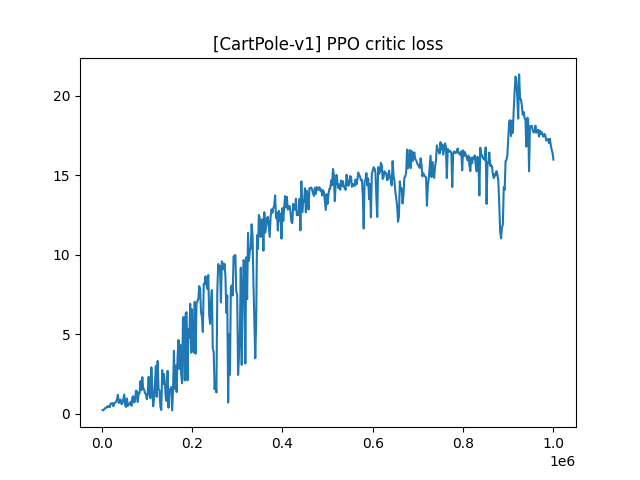
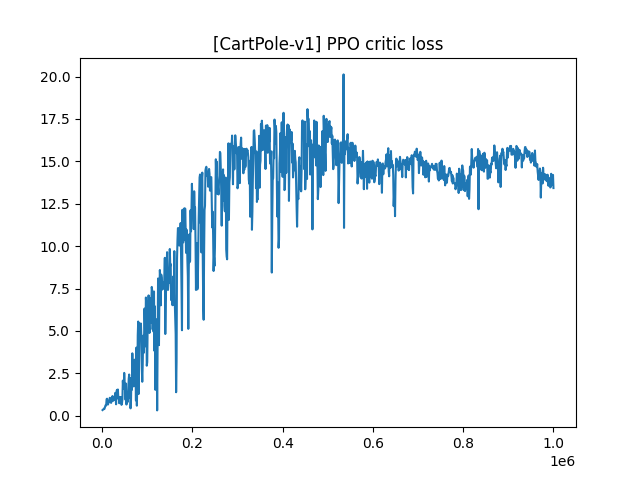
increase learning speed

diff --git a/algos/discrete_ppo.py b/algos/discrete_ppo.py
@@ -34,14 +34,14 @@ ENV_CONFIG = {
         "critic_model": Critic,
         "critic_params": [(30, 15)],
         "hyperparams": Hyperparams(
-            num_updates=500,
-            batch_count=25,
-            rollout_len=2000,
+            num_updates=1000,
+            batch_count=50,
+            rollout_len=1000,
             discount_rate=0.99,
             advantage_rate=0.95,
-            num_minibatches=2,
-            update_epochs=15,
-            actor_learning_rate=0.0002,
+            num_minibatches=5,
+            update_epochs=4,
+            actor_learning_rate=0.0003,
             actor_clip=0.2,
             critic_learning_rate=0.008,
             adam_eps=1e-5,
